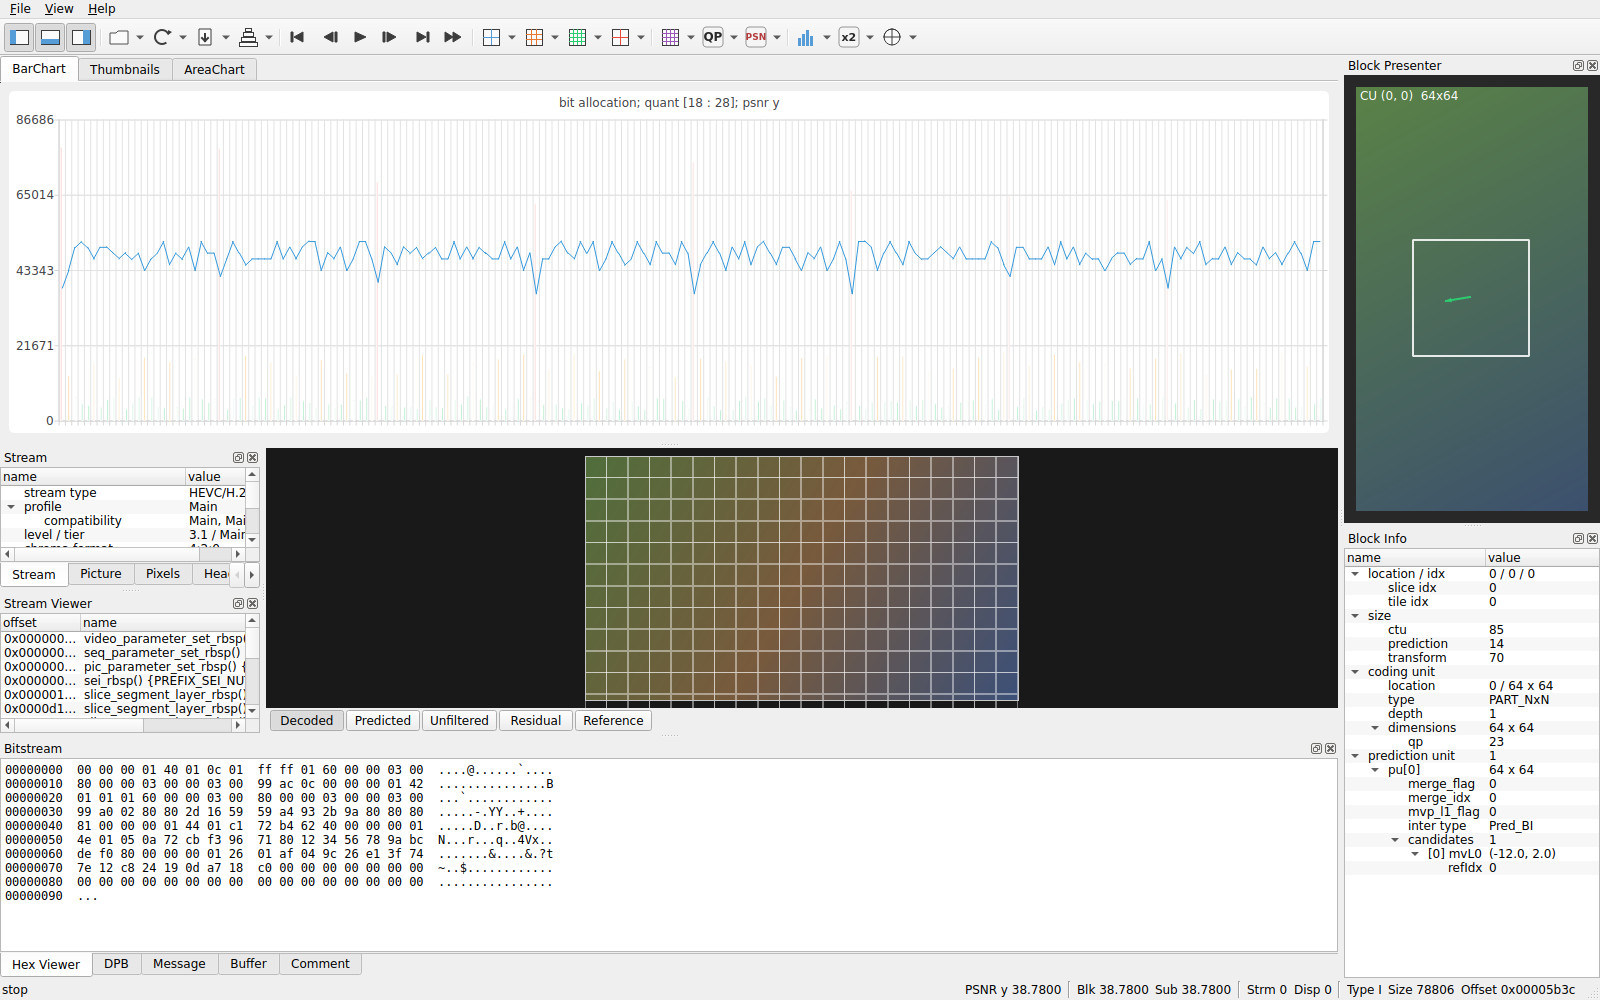
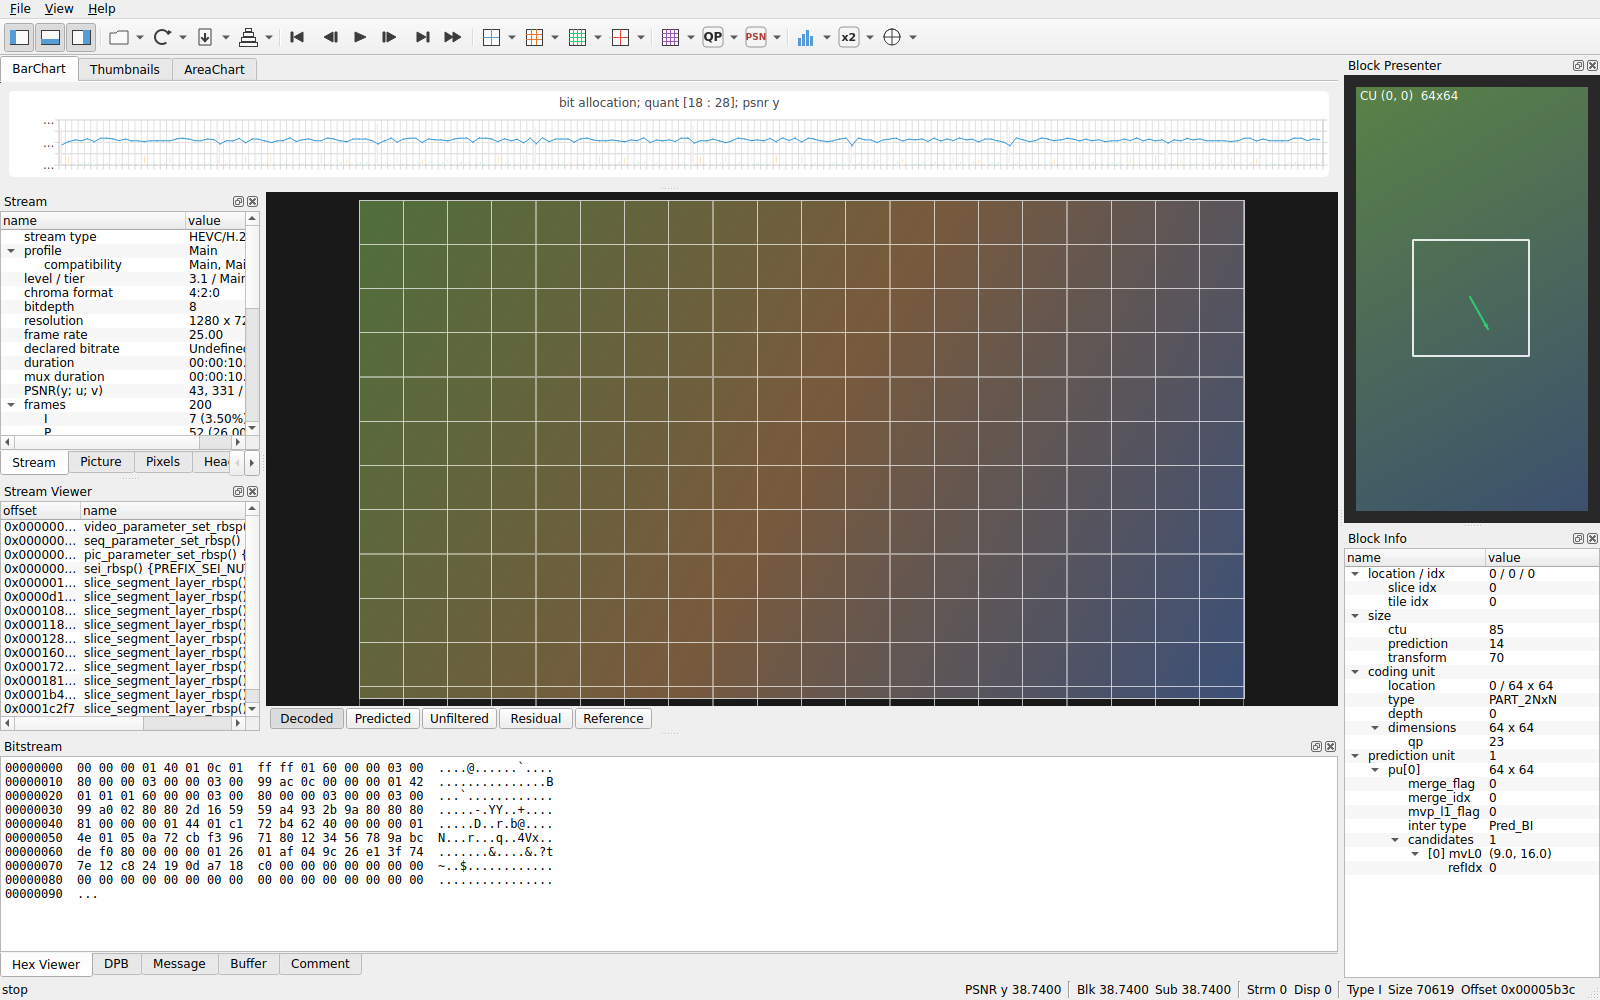
Shrink top chart dock vertical footprint
The BarChart / Thumbnails / AreaChart tab widget was claiming roughly a
third of the window height, leaving the video preview and side docks
cramped. Clamp the tab widget to min 90 / max 140 pixels tall and call
resizeDocks({chartDock}, {130}, Qt::Vertical) so it opens at a slim
130-px initial height, giving the rest of the UI more room.

https://claude.ai/code/session_01Fk599Kxe4RL25fwFBHgwYp

diff --git a/src/MainWindow.cpp b/src/MainWindow.cpp
@@ -96,10 +96,14 @@ void MainWindow::setupDocks() {
     chartDock->setFeatures(QDockWidget::NoDockWidgetFeatures);
     chartDock->setTitleBarWidget(new QWidget(chartDock));   // hide title bar
     m_chartTabs = new ChartTabWidget(&m_data, chartDock);
-    m_chartTabs->setMinimumHeight(180);
+    m_chartTabs->setMinimumHeight(90);
+    m_chartTabs->setMaximumHeight(140);
     chartDock->setWidget(m_chartTabs);
     chartDock->setAllowedAreas(Qt::TopDockWidgetArea);
     addDockWidget(Qt::TopDockWidgetArea, chartDock);
+    // Ask Qt to give the chart dock a slim 130-px initial height instead of
+    // growing to fill ~⅓ of the window.
+    resizeDocks({chartDock}, {130}, Qt::Vertical);
 
     // --- Left dock (top): Stream panel with 6 tabs -------------------------
     // The "Stream" tab hosts the existing StreamInfoTree. The other five
